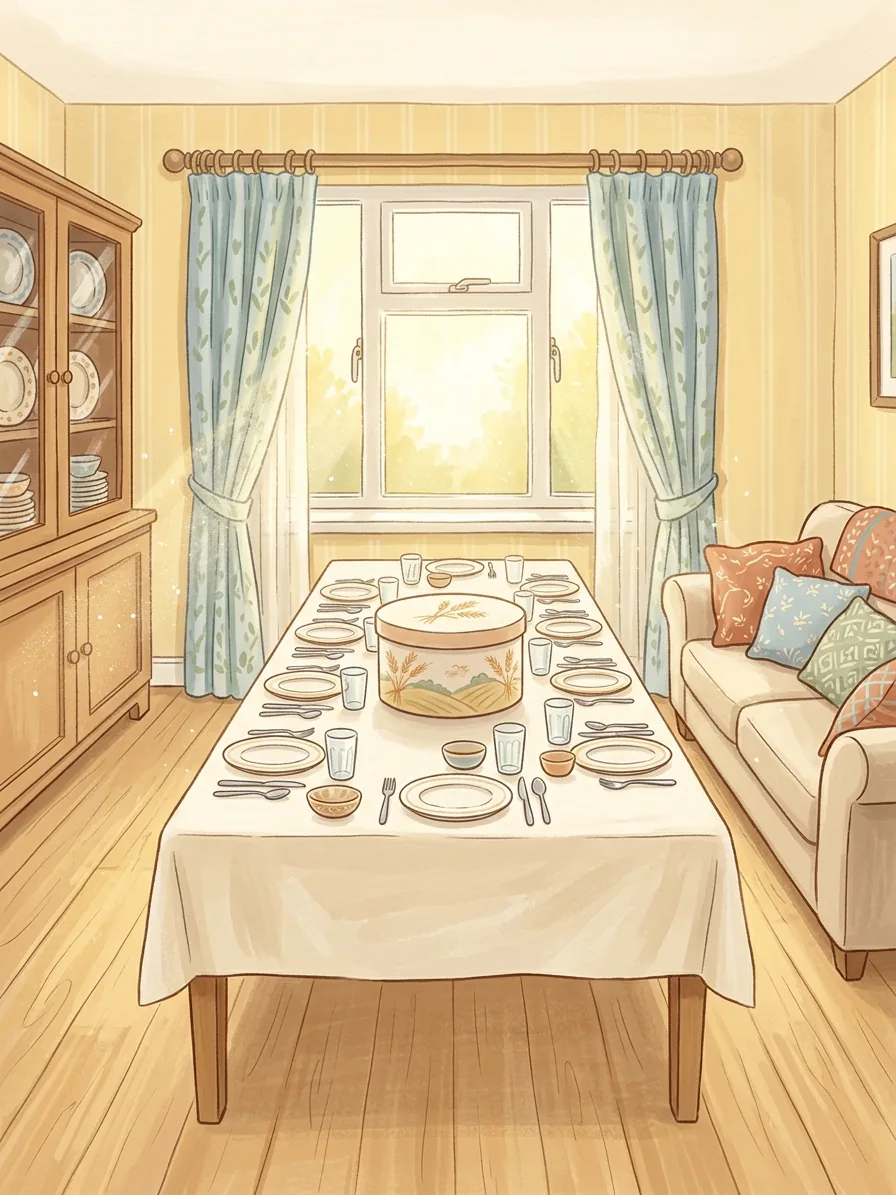
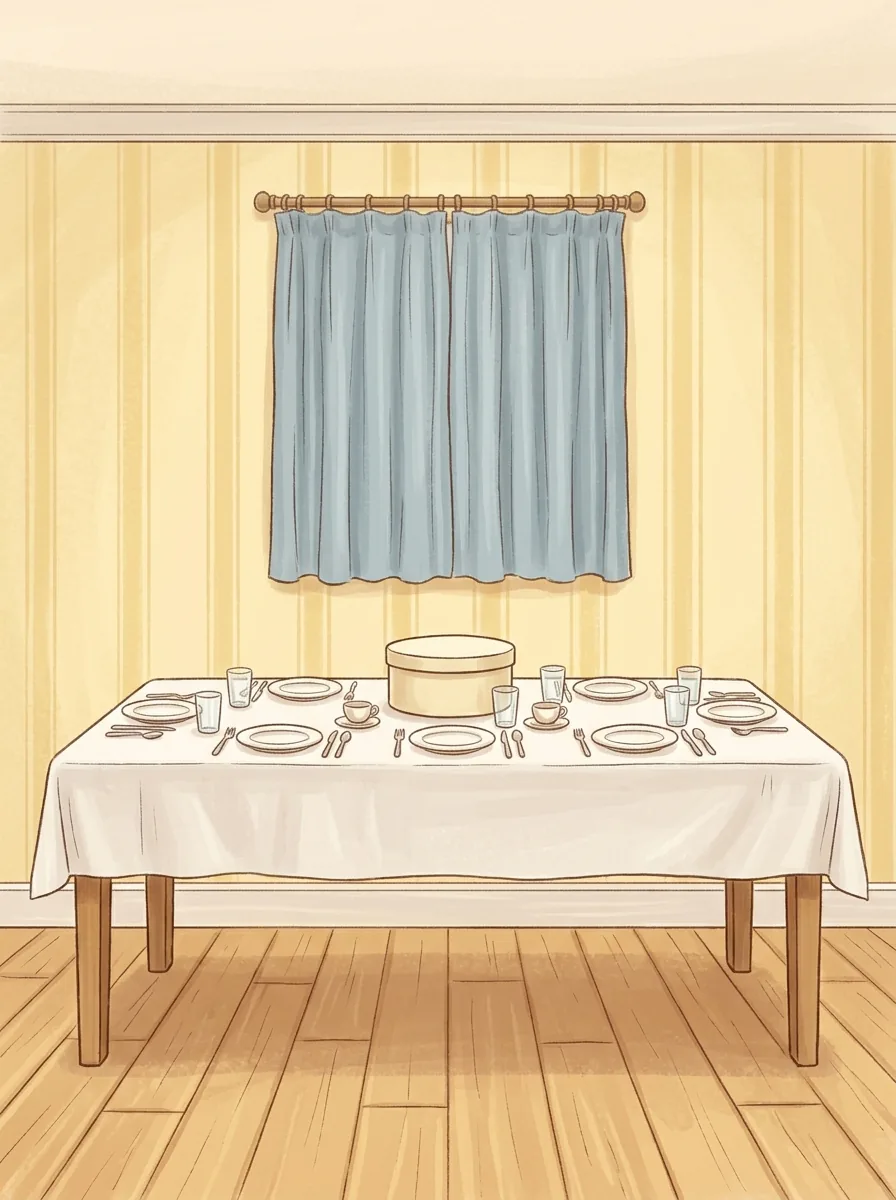
Sync verhalen (deuren, ask, geheimen, aandenkens, lagen, eindplaten), kluis-open op web, CACHE v29
Claude-Session: https://claude.ai/code/session_01DDr19a3x7nZpMYQQJGTKU5

diff --git a/js/app.js b/js/app.js
@@ -874,7 +874,8 @@ function askCode(type, len, onCode) {
 
 /** code {type, len, onCode}: a button swaps the text for the code pad, under the plate (which shrinks). */
 function showCloseup(p, th, msg, code) {
-  const src = plate(p.story.id, `${p.room.id}/${th.closeup}`);
+  // an opened thing shows <closeup>-open when that plate exists (the safe stands open), else its own plate
+  const src = (p.found.has(th.id) && plate(p.story.id, `${p.room.id}/${th.closeup}-open`)) || plate(p.story.id, `${p.room.id}/${th.closeup}`);
   let visual = src
     ? h('img', { class: 'closeup-img', src, alt: th.label || '' })
     : h('div', { class: 'closeup-label' }, th.label || '');

diff --git a/sw.js b/sw.js
@@ -1,7 +1,7 @@
 /* Service worker: cache-first app shell, precache of every story file, network-first index.html.
  * To ship a new version: bump CACHE below (escaperoom-v1 -> escaperoom-v2). Old caches are deleted on activate.
  * All paths are relative to this file, so it works under a sub-path (GitHub Pages). */
-const CACHE = 'escaperoom-v28';
+const CACHE = 'escaperoom-v29';
 
 const SHELL = [
   './',
